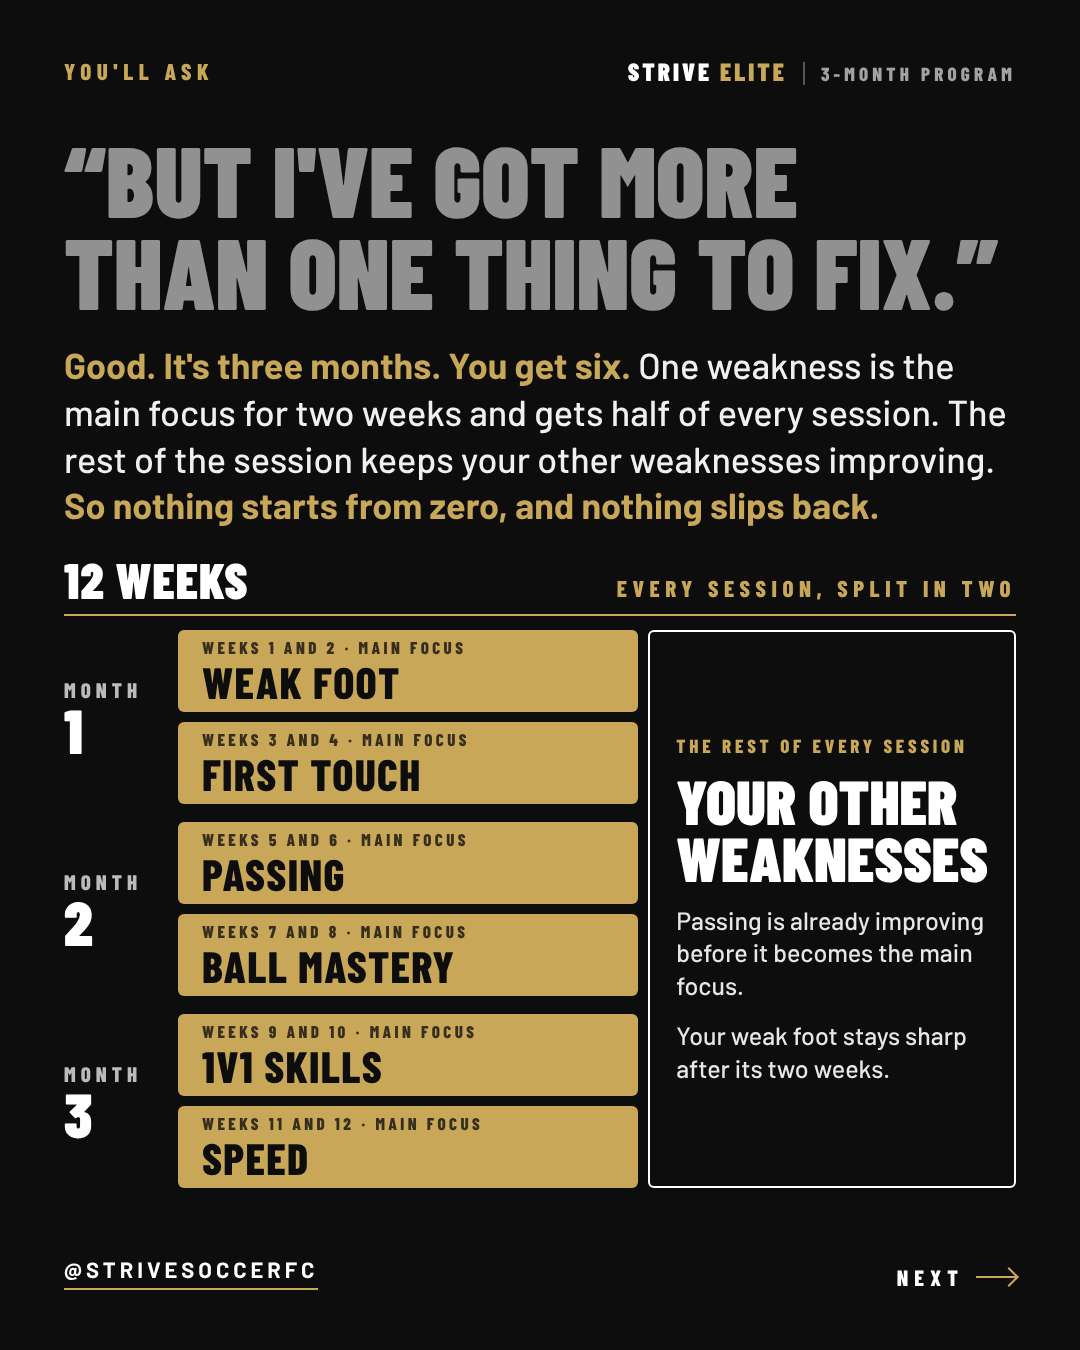
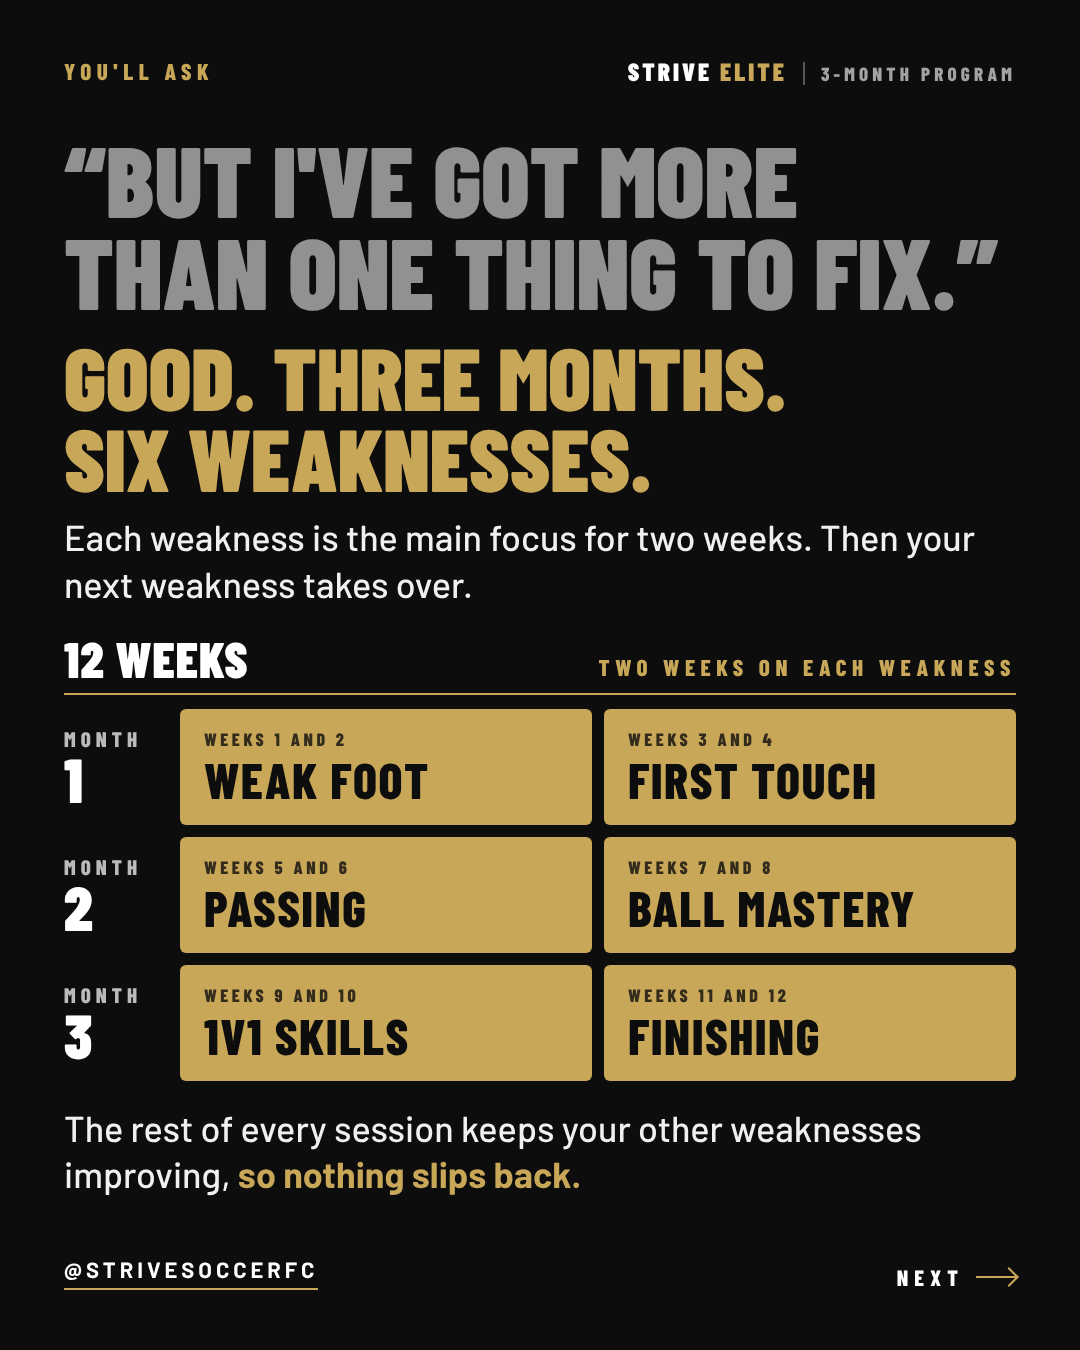
Compact carousel: slide 6 simplified, Finishing replaces Speed
Claude-Session: https://claude.ai/code/session_011JsCTTjCbUkHbTuWTKQSXJ

Changed region(s): [[0.0611, 0.2489, 0.9472, 0.9022]]

diff --git a/marketing/program/one-thing-carousel-4/06-six.html b/marketing/program/one-thing-carousel-4/06-six.html
@@ -1,29 +1,26 @@
 <!doctype html><meta charset="utf-8"><link rel="stylesheet" href="../../covers/strive-elite-meeting/fonts.css"><link rel="stylesheet" href="style.css"><title>More than one thing</title>
 <style>
-.q{font-size:100px}.a{margin-top:26px;font-size:36px;line-height:1.3}
+.q{font-size:100px}
+.big{margin-top:20px;font-family:'Barlow Condensed';font-weight:900;font-size:88px;line-height:.92;text-transform:uppercase;color:#c8a858}
+.a{margin-top:16px;font-size:36px;line-height:1.3}
 .sched{margin-top:28px}
 .hd{padding-bottom:12px;margin-bottom:14px}
-.g6{display:grid;grid-template-columns:104px 1.45fr 1fr;gap:10px 10px}
-.g6 .lb{grid-column:1;grid-row:span 2;display:flex;flex-direction:column;justify-content:center;font-family:'Barlow Condensed';font-weight:800;font-size:21px;letter-spacing:.24em;text-transform:uppercase;color:rgba(255,255,255,.72)}
-.g6 .lb b{font-weight:900;font-size:62px;line-height:.9;letter-spacing:0;color:#fff}
-.g6 .bk{grid-column:2;height:82px;font-size:44px;padding:0 24px}
-.g6 .bk small{font-size:17px;letter-spacing:.2em;margin-bottom:4px;opacity:.78}
-.g6 .sp{margin-top:8px}
-.g6 .tall{grid-column:3;grid-row:1 / span 6;height:auto;align-self:stretch;border:2px solid #fff;border-radius:6px;display:flex;flex-direction:column;justify-content:center;padding:0 26px}
-.tall small{font-family:'Barlow Condensed';font-weight:800;font-size:19px;line-height:1.25;letter-spacing:.2em;text-transform:uppercase;color:#c8a858}
-.tall b{display:block;margin-top:14px;font-family:'Barlow Condensed';font-weight:900;font-size:62px;line-height:.92;text-transform:uppercase;color:#fff}
-.tall i{display:block;margin-top:18px;font-style:normal;font-weight:500;font-size:25px;line-height:1.3;color:rgba(255,255,255,.9)}
+.m3{display:grid;grid-template-columns:104px 1fr 1fr;gap:12px}
+.m3 .lb{display:flex;flex-direction:column;justify-content:center;font-family:'Barlow Condensed';font-weight:800;font-size:21px;letter-spacing:.24em;text-transform:uppercase;color:rgba(255,255,255,.72)}
+.m3 .lb b{font-weight:900;font-size:62px;line-height:.9;letter-spacing:0;color:#fff}
+.m3 .bk{height:116px;font-size:50px;padding:0 24px}
+.m3 .bk small{font-size:18px;letter-spacing:.2em;margin-bottom:6px;opacity:.8}
+.end{margin-top:24px;font-size:36px;line-height:1.3;font-weight:500;color:rgba(255,255,255,.94)}
+.end b{font-weight:700;color:#c8a858}
 </style>
 <div class="top"><div class="step">You'll ask</div><div class="wm">Strive <span>Elite</span><em>3-month program</em></div></div>
 <div class="pad"><div class="q">&ldquo;But I've got more than one thing to fix.&rdquo;</div>
-<p class="p a"><b>Good. It's three months. You get six.</b> One weakness is the main focus for two weeks and gets half of every session. The rest of the session keeps your other weaknesses improving. <b>So nothing starts from zero, and nothing slips back.</b></p>
-<div class="sched"><div class="hd"><b>12 weeks</b><span>Every session, split in two</span></div><div class="g6">
-<div class="tall"><small>The rest of every session</small><b>Your other weaknesses</b><i>Passing is already improving before it becomes the main focus.</i><i>Your weak foot stays sharp after its two weeks.</i></div>
-<div class="lb">Month<b>1</b></div><div class="bk g"><small>Weeks 1 and 2 &middot; main focus</small>Weak foot</div>
-<div class="bk g"><small>Weeks 3 and 4 &middot; main focus</small>First touch</div>
-<div class="lb sp">Month<b>2</b></div><div class="bk g sp"><small>Weeks 5 and 6 &middot; main focus</small>Passing</div>
-<div class="bk g"><small>Weeks 7 and 8 &middot; main focus</small>Ball mastery</div>
-<div class="lb sp">Month<b>3</b></div><div class="bk g sp"><small>Weeks 9 and 10 &middot; main focus</small>1v1 skills</div>
-<div class="bk g"><small>Weeks 11 and 12 &middot; main focus</small>Speed</div>
-</div></div></div>
+<div class="big">Good. Three months.<br>Six weaknesses.</div>
+<p class="p a">Each weakness is the main focus for two weeks. Then your next weakness takes over.</p>
+<div class="sched"><div class="hd"><b>12 weeks</b><span>Two weeks on each weakness</span></div><div class="m3">
+<div class="lb">Month<b>1</b></div><div class="bk g"><small>Weeks 1 and 2</small>Weak foot</div><div class="bk g"><small>Weeks 3 and 4</small>First touch</div>
+<div class="lb">Month<b>2</b></div><div class="bk g"><small>Weeks 5 and 6</small>Passing</div><div class="bk g"><small>Weeks 7 and 8</small>Ball mastery</div>
+<div class="lb">Month<b>3</b></div><div class="bk g"><small>Weeks 9 and 10</small>1v1 skills</div><div class="bk g"><small>Weeks 11 and 12</small>Finishing</div>
+</div></div>
+<p class="end">The rest of every session keeps your other weaknesses improving, <b>so nothing slips back.</b></p></div>
 <div class="handle">@strivesoccerfc</div><div class="swipe">Next <i></i></div>

diff --git a/CLAUDE.md b/CLAUDE.md
@@ -4048,6 +4048,7 @@ commit.
       THEN Nov 12 2026 (Coach Yinka: "Okay send final"): THE FINAL COMPACT CAROUSEL SENT, seven slides re-rendered from source in posting order (marketing/program/one-thing-carousel-4/): cover, you know this week, same 4 sessions now 8 drills, his story, more than one thing to fix, speed strength and your games (the app phone, "Deep mentorship to push you forward"), close; with the caption in the README. NOT POSTED. Still his: "30 day" versus the 3-month program on the slides; the slides show 4 drills and two strength finishers a session where the app builds 3 and 1; Carla's ELITE reply should expect "the one thing holding you back"; it speaks to the player; no price or guarantee on it by design.
       THEN Nov 12 2026 (Coach Yinka, with a screenshot of slide 3 in the Instagram editor: "the week one and week 2 doesn't exactly click for the viewer in this slide let's make adjustments"): the cause was one grid of four sessions sitting under the header "Week 1 and week 2, 4 sessions each", so one week was labelled as two. COMPACT CUT SLIDE 3 REBUILT in two steps: the grid is ONE week, header "THE SAME WEEK, REBUILT / 4 sessions, 16 drills" (the mirror of slide 2's "That week, written down / 4 sessions, 16 drills", so the two slides read as before and after); under it a second header "THEN THE SAME WEEK AGAIN / With harder drills" over Week 1 "Weak foot tap, pull, push", an arrow, Week 2, harder, "Weak foot pop and juggle"; closing line "Two weeks. Sixteen weak foot drills. Nobody gets stronger lifting the same weight all year." (8 a week for two weeks). Headline unchanged. Sent, not posted.
       THEN Nov 12 2026 (Coach Yinka: "What do you mean the same week again, add another slide showing the visual of the weak foot drills going over how we break up the focuses 2 weeks at a time and use the word progressively overload"): "then the same week again" was my wording and it is GONE. The compact cut is EIGHT slides (files renumbered: 05-story, 06-six, 07-every-week, 08-close). SLIDE 3 is back to one idea: the rebuilt week, "Two weak foot drills every session. That is enough work to change your weak foot." NEW SLIDE 4 (04-overload): "THEN WE PROGRESSIVELY OVERLOAD YOUR WEAK FOOT." / "Every weakness is the main focus for two weeks. In week 2, the drills get harder." / YOUR WEAK FOOT DRILLS, week 1, then week 2, as the app's drill cards with frames of the clips: Week 1 "Weak foot tap, pull, push" and "Weak foot outside pull, inside pull"; Week 2, harder, lit, "Weak foot pop and juggle" and "Wall pass, touch behind the leg" (bank titles and reps; the wall drill means a player with a wall) / "That is progressive overload. Nobody gets stronger lifting the same weight all year." FLAG: which two drills are week 1 and which two are week 2 is my pick from the bank, his to change. Slides 3 and 4 sent, not posted.
+      THEN Nov 12 2026 (Coach Yinka, with a screenshot of the six-weaknesses slide: "Take speed off this slide bc it's on the next and make this slide more simple to understand, replace it with finishing"): compact cut SLIDE 6 REBUILT. Weeks 11 and 12 are FINISHING (Speed is off this slide; it is on the next one). SIMPLER: the long paragraph and the tall white "your other weaknesses" block are gone. It now reads: the objection, "GOOD. THREE MONTHS. SIX WEAKNESSES.", "Each weakness is the main focus for two weeks. Then your next weakness takes over.", the 12 WEEKS graphic as three rows of two gold blocks (Month 1 Weak foot, First touch; Month 2 Passing, Ball mastery; Month 3 1v1 skills, Finishing), and one closing line, "The rest of every session keeps your other weaknesses improving, so nothing slips back." FLAG, his call: THE APP CANNOT BUILD A FINISHING FOCUS TODAY. Shooting and finishing were left out of the program on his word Nov 11 and the bank holds zero shooting or finishing drills, so a member who asks for those two weeks cannot be given them until the clips are filmed and banked; same standing as Scoring Goals on the offer post. The twelve-slide version still shows Speed there. Sent, not posted.
 
 ## Skills (use them without being asked)
 

diff --git a/marketing/program/one-thing-carousel-4/README.md b/marketing/program/one-thing-carousel-4/README.md
@@ -29,8 +29,12 @@ Same look, same approved lines, merged. Render: `node render.mjs 02-your-week.ht
    Nobody gets stronger lifting the same weight all year.
 5. `05-story`. IT'S HOW I CAME BACK. Five months out with a hip tear, one main
    thing at a time, the best form of my life.
-6. `06-six`. "BUT I'VE GOT MORE THAN ONE THING TO FIX." / Good. It's three
-   months. You get six. ... (the 12 weeks, two weeks for each main focus)
+6. `06-six` (simplified Nov 12). "BUT I'VE GOT MORE THAN ONE THING TO FIX." /
+   GOOD. THREE MONTHS. SIX WEAKNESSES. / Each weakness is the main focus for
+   two weeks. Then your next weakness takes over. / 12 WEEKS, two weeks on
+   each weakness: Month 1 Weak foot, First touch; Month 2 Passing, Ball
+   mastery; Month 3 1v1 skills, Finishing / The rest of every session keeps
+   your other weaknesses improving, so nothing slips back.
 7. `07-every-week`. "WHAT ABOUT SPEED, STRENGTH AND MY GAMES?" / SPEED,
    STRENGTH AND YOUR GAMES DON'T WAIT THEIR TURN. / Every session, SPEED AND
    STRENGTH / Every Sunday, FILM ROOM / Every month, 1:1 CALL (One on one with
@@ -67,5 +71,9 @@ DM ELITE and tell us the one thing holding you back.
 - The carousel shows 4 drills a session, 2 on the main focus, and two strength
   drills to finish; the app builds 3 skill drills and one finisher (his
   "Carousel only" call, Nov 11).
+- FINISHING is on slide 6 as weeks 11 and 12 on his word, but the app has no
+  finishing drills and no finishing focus yet (shooting and finishing were
+  left out of the program on Nov 11). A member cannot be given that focus
+  until the clips are filmed and banked.
 - It speaks to the player, not the parent. No price, no guarantee, by design.
 - Carla's ELITE reply should expect "the one thing holding you back".
